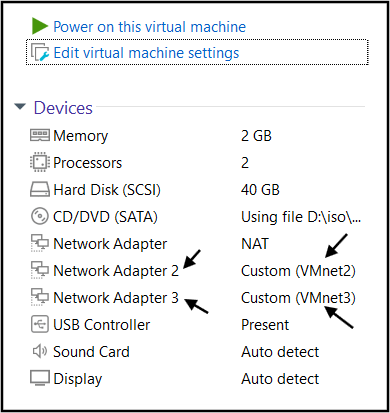
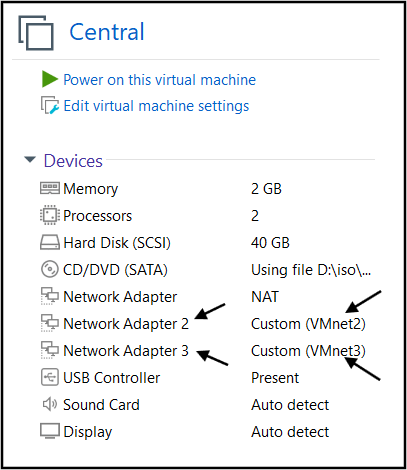
Update images

diff --git a/mod2/README.md b/mod2/README.md
@@ -4,13 +4,6 @@
 
 > 2 machines for teams containing services
 
-# Application
-- [ForcAD](https://github.com/pomo-mondreganto/ForcAD/releases/tag/v1.4.0)
-- [Docker](https://docs.docker.com/engine/install/ubuntu/)
-- Openvpn
-
-# Setup
-
 ## VMware configuration
 
 ### ------ **Central machine**
